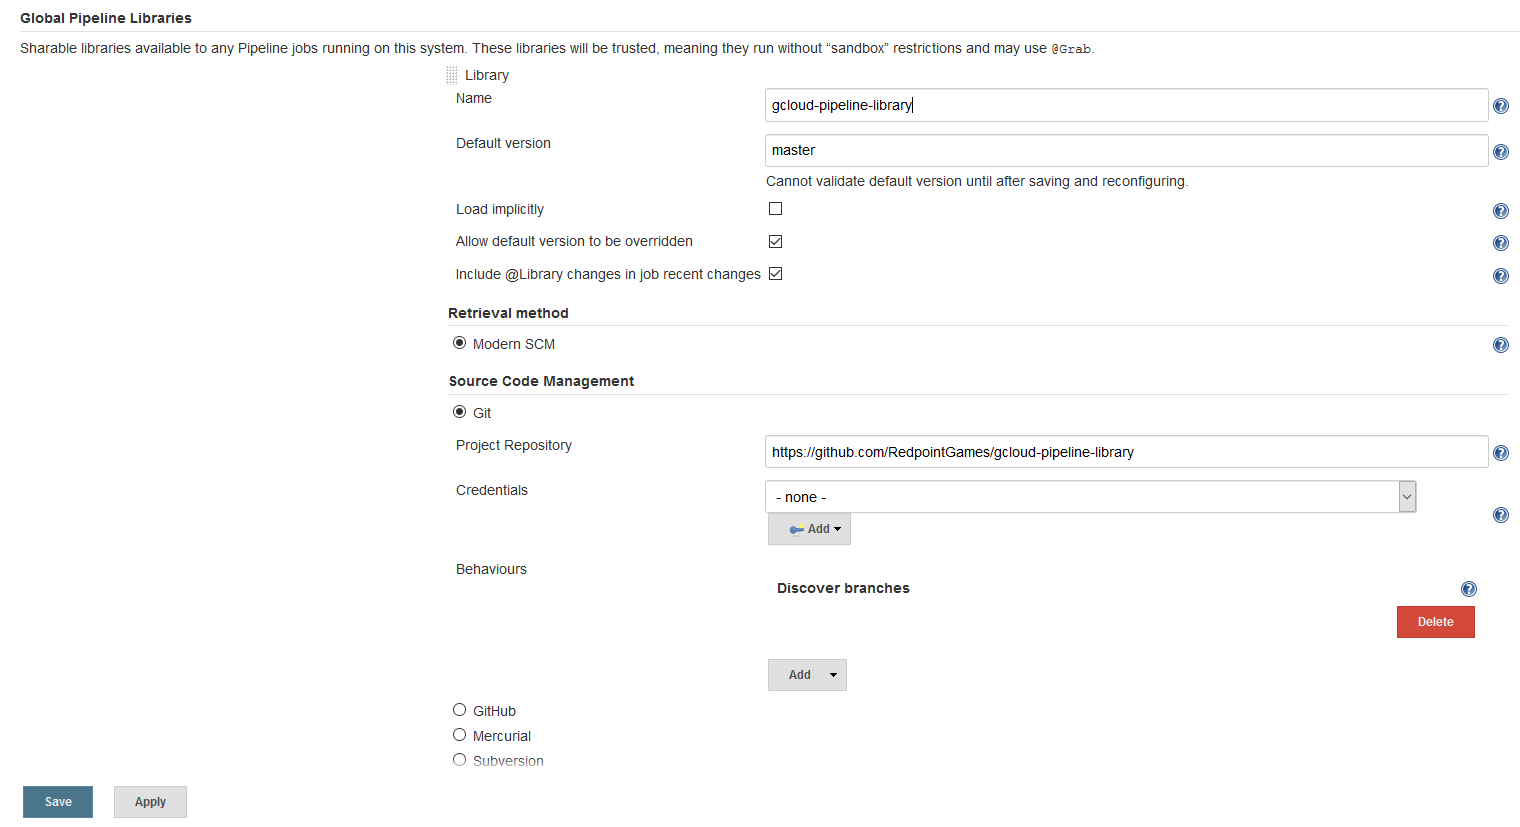
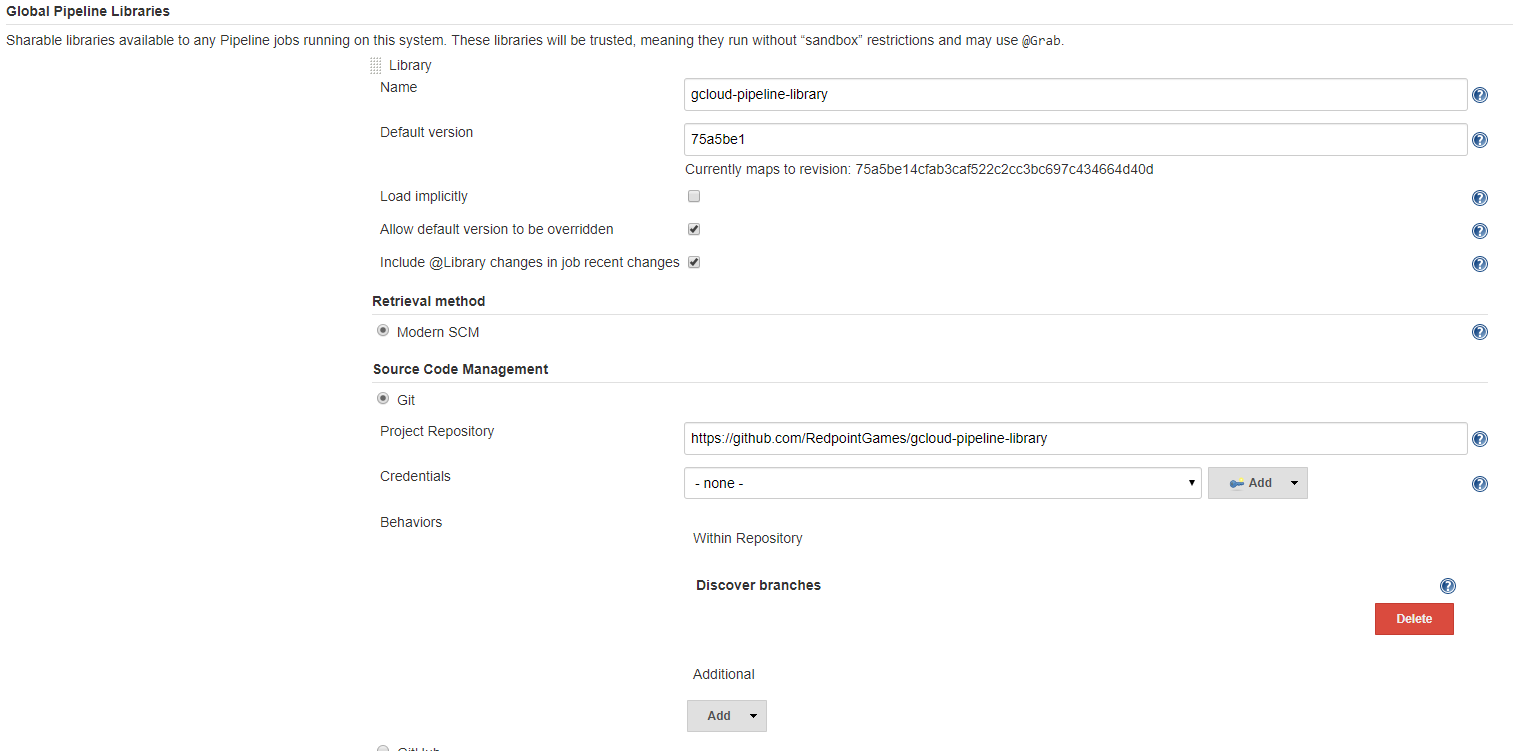
Update documentation

diff --git a/README.md b/README.md
@@ -34,7 +34,19 @@ If using the first form (`serviceAccountCredential`), the credential should be o
 
 ## Setup
 
-You need to add this library to your Jenkins instance first. Under **Manage Jenkins -> Configure System**, scroll down until you find the **Global Pipeline Libraries** section, then add this repository like so:
+You need to add this library to your Jenkins instance to use it.
+
+### Determine Version
+
+On this page, locate the current commit hash of the project. It is recommended that you use a commit hash instead of `master`, as this library is updated to support the latest `gcloud` commands (which can change in breaking ways when new SDK versions are released). The commit hash is located here:
+
+![The commit hash is shown next to "Latest commit"](./commit-hash.png)
+
+**WARNING:** If you use `master`, your builds might stop working when new updates are made to this library, and you might need to update the Google Cloud SDK installed on your build agents. In addition, updates to this library will cause all builds using this library to kick off, because Jenkins polls for changes to pipeline libraries and starts builds if they've changed. You probably don't want updates to this library kicking off builds on the weekend, so please, locate and use a commit hash as outlined above.
+
+### Install into Jenkins
+
+Under **Manage Jenkins -> Configure System**, scroll down until you find the **Global Pipeline Libraries** section, then add this repository like so:
 
 ![Setup Instructions](./setup.png)
 
